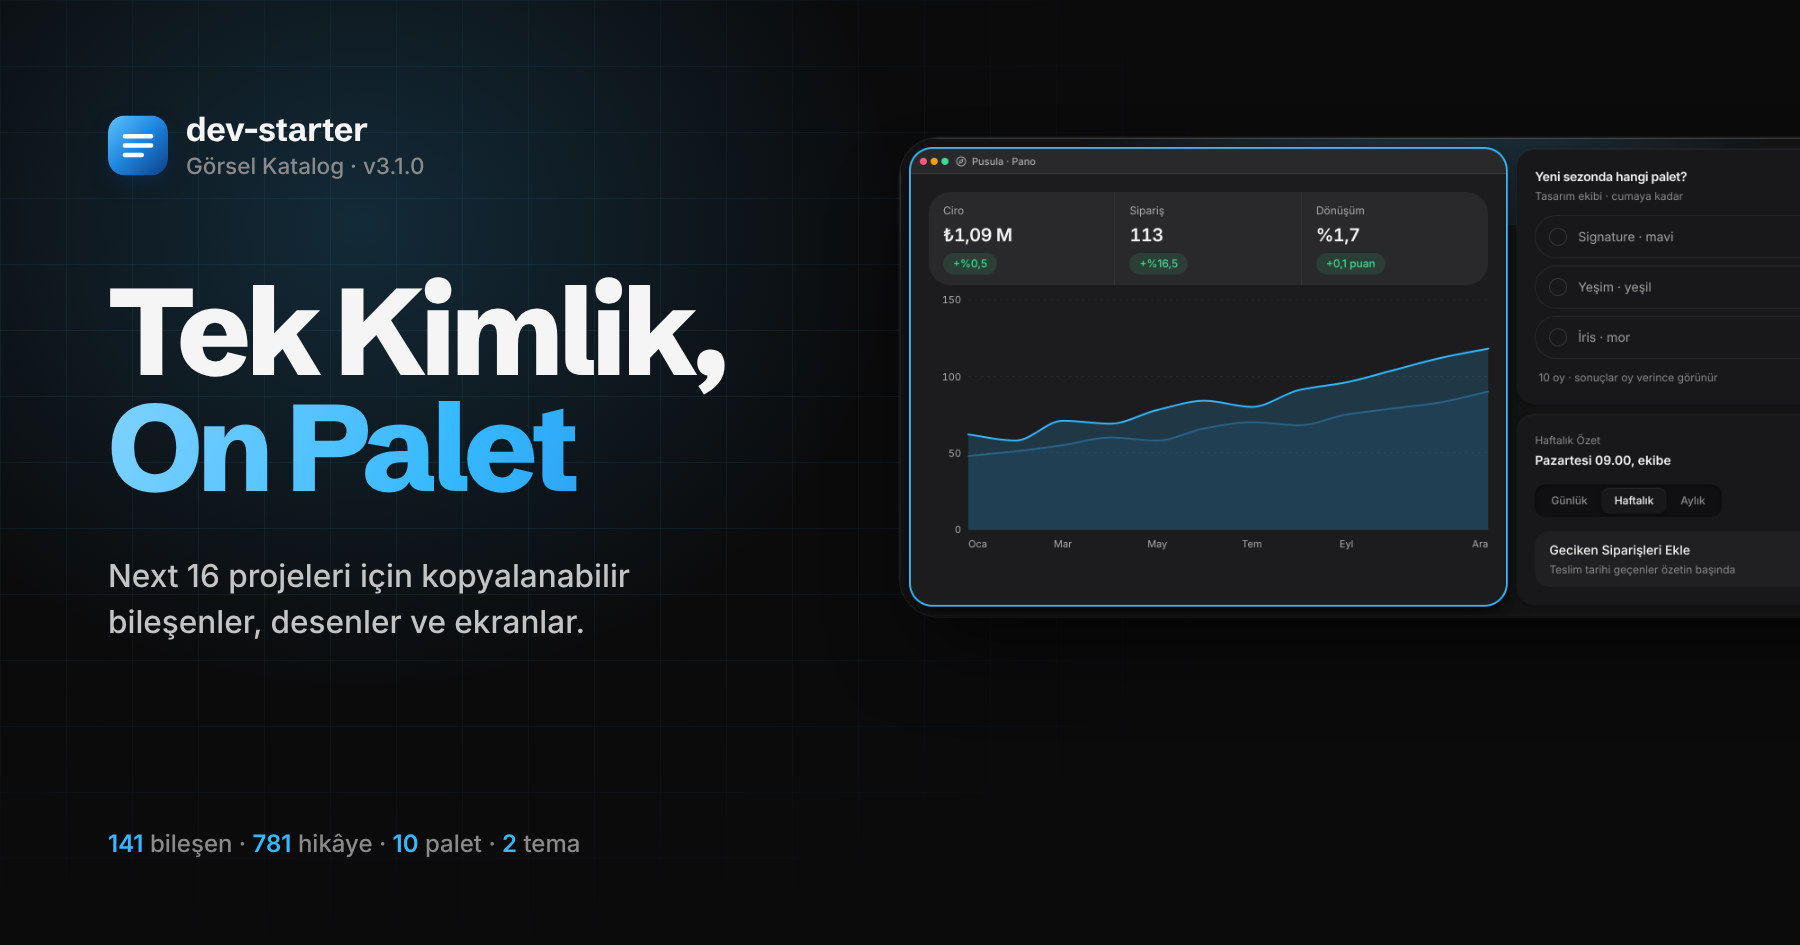
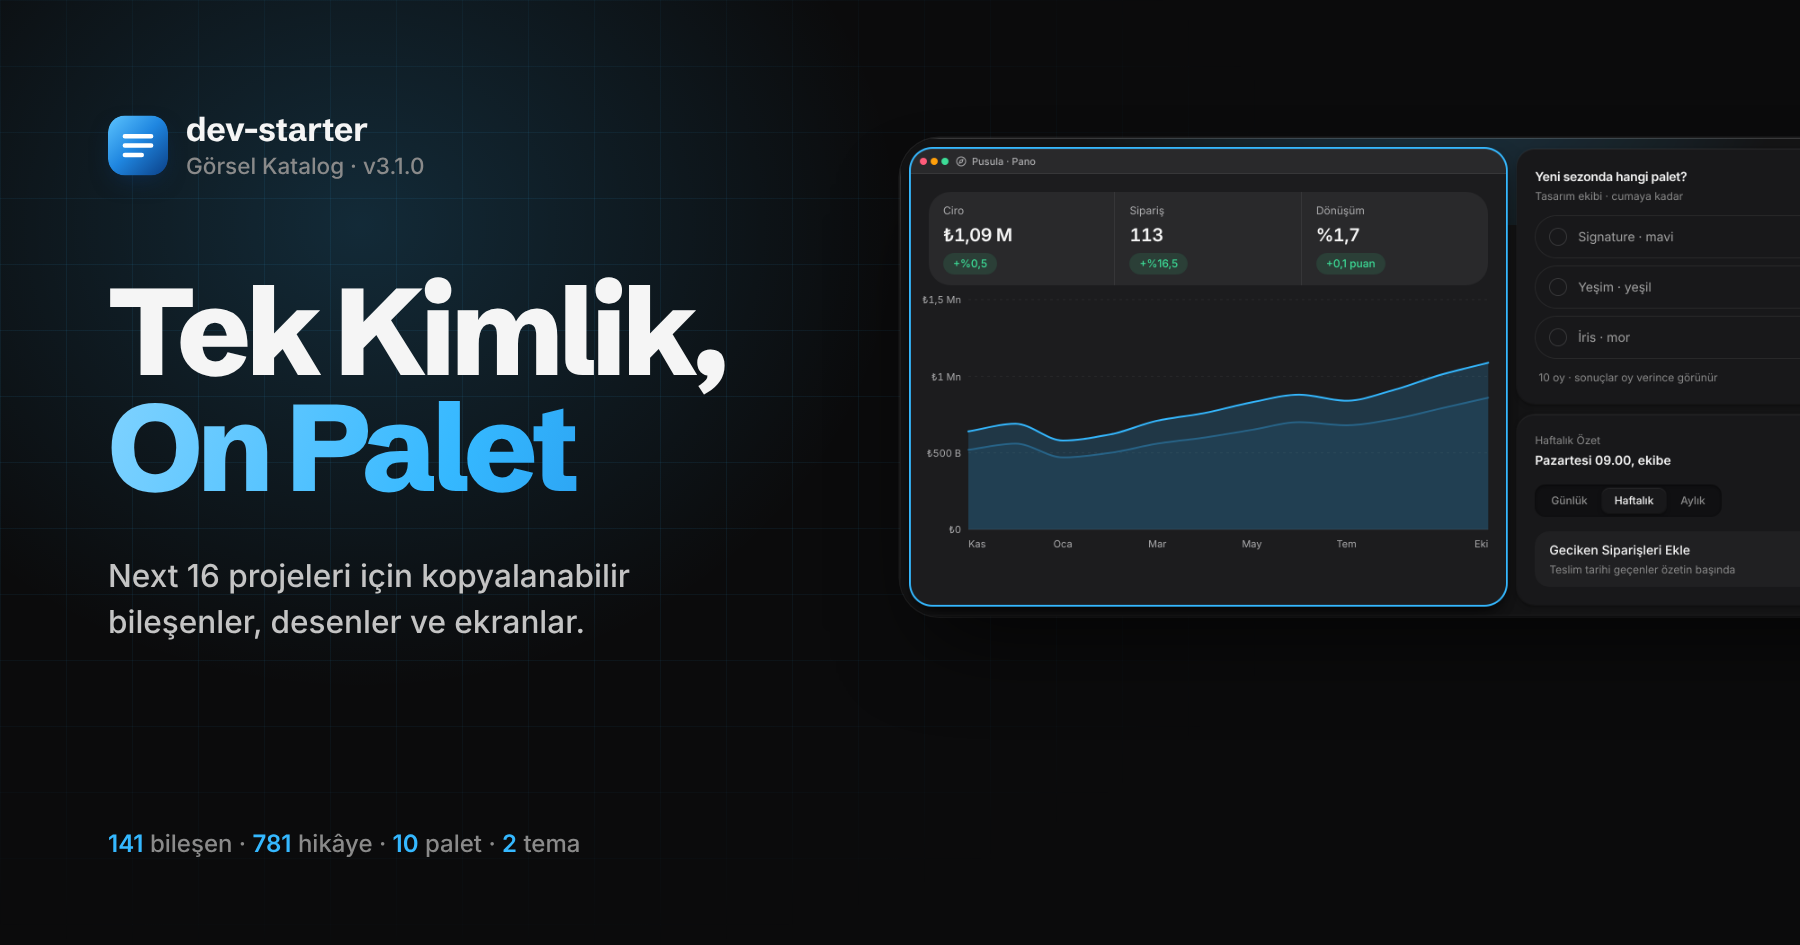
fix(storybook): Tanıtım kolajında ciro ekseni ₺ olarak; paylaşım görseli yenilendi
Claude-Session: https://claude.ai/code/session_01CjLDHjG5dMpvFQEoUac2GU

Changed region(s): [[0.5289, 0.3683, 0.84, 0.491]]

diff --git a/storybook/stories/kapak/Kapak.stories.tsx b/storybook/stories/kapak/Kapak.stories.tsx
@@ -361,10 +361,11 @@ function Showcase() {
                 title="Aylık Ciro, Son 12 Ay ve Önceki 12 Ay"
                 labels={MONTHS}
                 series={[
-                  { label: "Son 12 Ay", values: THIS_YEAR, series: 1 },
-                  { label: "Önceki 12 Ay", values: LAST_YEAR, series: 2 },
+                  { label: "Son 12 Ay", values: THIS_YEAR.map((v) => v * 1000), series: 1 },
+                  { label: "Önceki 12 Ay", values: LAST_YEAR.map((v) => v * 1000), series: 2 },
                 ]}
-                unit="bin ₺"
+                // Eksen "₺1,5 Mn": "bin ₺" birimiyle kısaltma "1,5 B" (bin bin ₺) okunuyordu.
+                valueFormat={{ style: "currency", currency: "TRY", notation: "compact", maximumFractionDigits: 1 }}
                 height="h-52 lg:h-64"
               />
             </div>

diff --git a/storybook/stories/grafik/AnalitikPanosu.stories.tsx b/storybook/stories/grafik/AnalitikPanosu.stories.tsx
@@ -292,7 +292,7 @@ export const Default: Story = {
     await expect(canvas.getByText("2 – 31 Ekim 2026")).toBeInTheDocument();
     // Dönem değişince bütün pano birlikte güncellenir
     await userEvent.click(canvas.getByRole("radio", { name: "Yıl" }));
-    await expect(canvas.getByText("Ocak – Aralık 2026")).toBeInTheDocument();
+    await expect(canvas.getByText("Kasım 2025 – Ekim 2026")).toBeInTheDocument();
     await userEvent.click(canvas.getByRole("radio", { name: "Ay" }));
     await expect(canvas.getByRole("radio", { name: "Ay" })).toBeChecked();
   },
